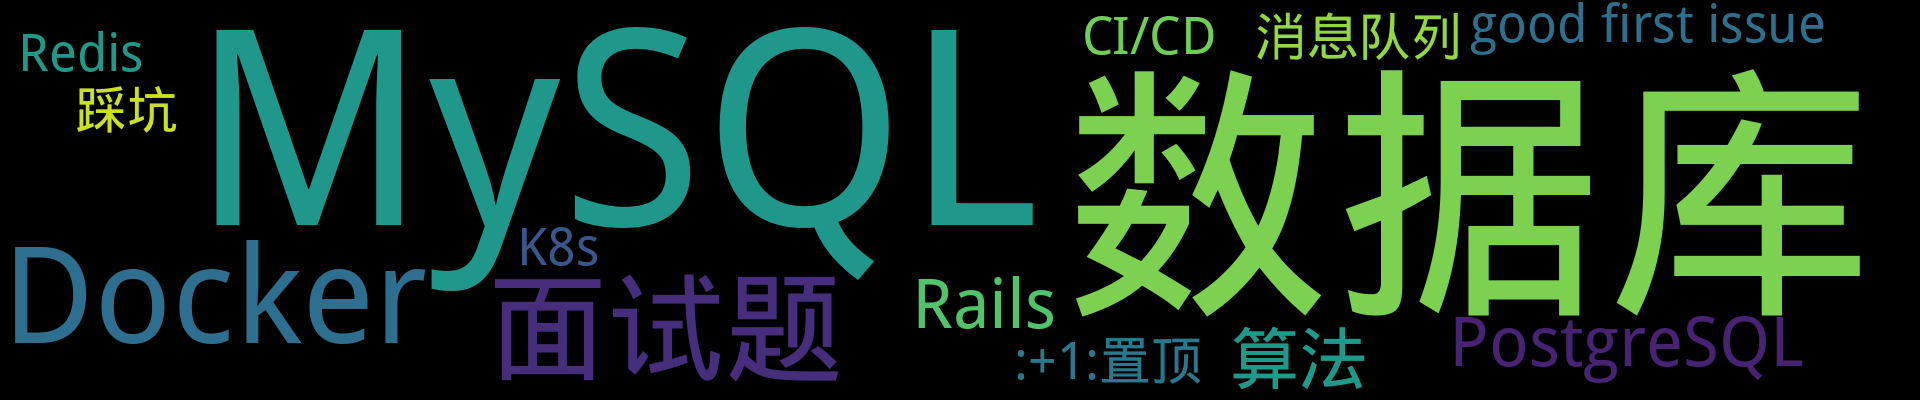
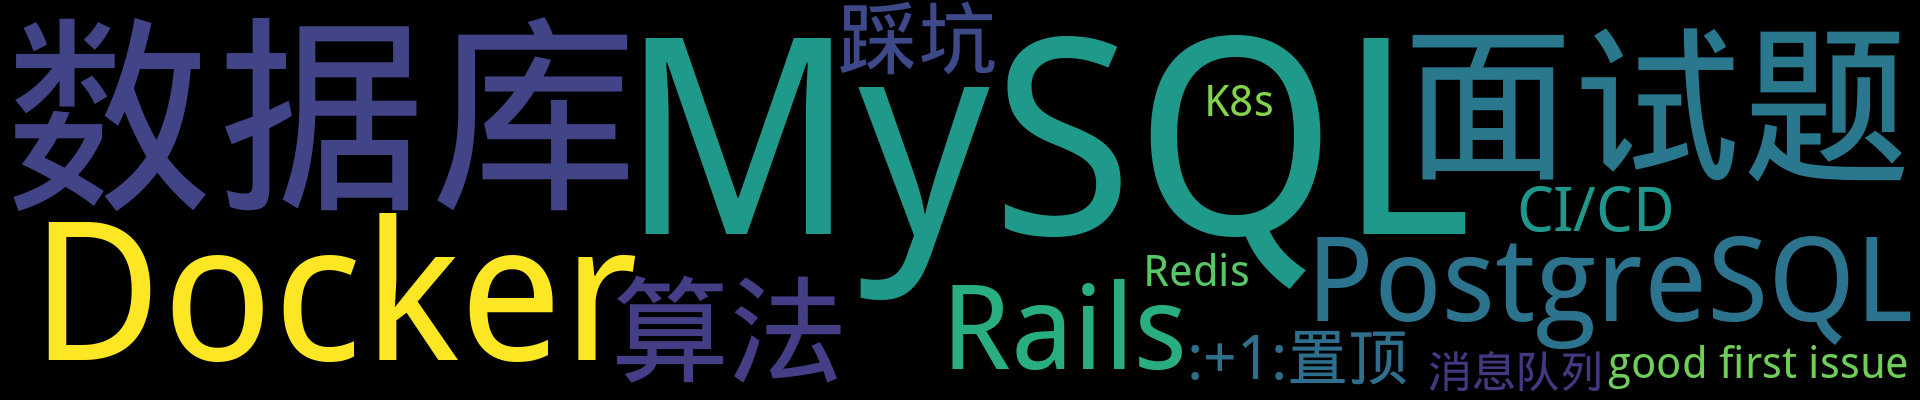
Update from Github Action

diff --git a/README.md b/README.md
@@ -3,7 +3,7 @@
 <p align='center'>
     <img src="https://badgen.net/badge/labels/17"/>
     <img src="https://badgen.net/github/issues/iamtomas/ghiblog"/>
-    <img src="https://badgen.net/badge/last-commit/2022-02-20 14:18:08"/>
+    <img src="https://badgen.net/badge/last-commit/2022-02-28 06:52:58"/>
     <img src="https://badgen.net/github/forks/iamtomas/ghiblog"/>
     <img src="https://badgen.net/github/stars/iamtomas/ghiblog"/>
     <img src="https://badgen.net/github/watchers/iamtomas/ghiblog"/>
@@ -20,6 +20,19 @@
 ## 置顶 :thumbsup: 
 - [基于Github Action自动生成并更新GitHub Issue博客的ReadMe](https://github.com/iamtomas/note/issues/1)  <sup>0 :speech_balloon:</sup>  	 
 ## 最新 :new: 
+
+#### [ld: library not found for -lzstd while bundle install for mysql2 gem Ruby on macOS Big Sur](https://github.com/iamtomas/note/issues/29) <sup>0 :speech_balloon:</sup> 	 2022-02-28 06:52:29
+
+:label: : [踩坑](https://github.com/iamtomas/ghiblog/labels/%E8%B8%A9%E5%9D%91)
+
+macOS Big Sur 11.6
+
+
+
+[更多>>>](https://github.com/iamtomas/note/issues/29)
+
+---
+
 
 #### [数据库设计大全](https://github.com/iamtomas/note/issues/28) <sup>0 :speech_balloon:</sup> 	 2022-02-20 13:28:31
 
@@ -71,19 +84,6 @@
 <img width="306" alt="image" src="https://user-images.githubusercontent.com/83901620/153760006-0bab140c-d286-4438-b5c2-580b0b648594.png"
 
 [更多>>>](https://github.com/iamtomas/note/issues/25)
-
----
-
-
-#### [Docker-compose up failing because "port is already allocated"](https://github.com/iamtomas/note/issues/24) <sup>0 :speech_balloon:</sup> 	 2022-02-09 10:03:06
-
-:label: : [Docker](https://github.com/iamtomas/ghiblog/labels/Docker)
-
-![image](https://user-images.githubusercontent.com/83901620/153175090-89160e54-1b13-426d-ab11-fcb62679097c.png)
-
-参考：https://github.com/docker/compos
-
-[更多>>>](https://github.com/iamtomas/note/issues/24)
 
 ---
 
@@ -229,8 +229,9 @@
 </details>
 
 <details>
-<summary>踩坑	<sup>1:newspaper:</sup></summary>
+<summary>踩坑	<sup>2:newspaper:</sup></summary>
 
+- [ld: library not found for -lzstd while bundle install for mysql2 gem Ruby on macOS Big Sur](https://github.com/iamtomas/note/issues/29)  <sup>0 :speech_balloon:</sup>  	 
 - [解决OSX使用oh-my-zsh后.bash_profile自定义失效](https://github.com/iamtomas/note/issues/23)  <sup>0 :speech_balloon:</sup>  	 
 
 
